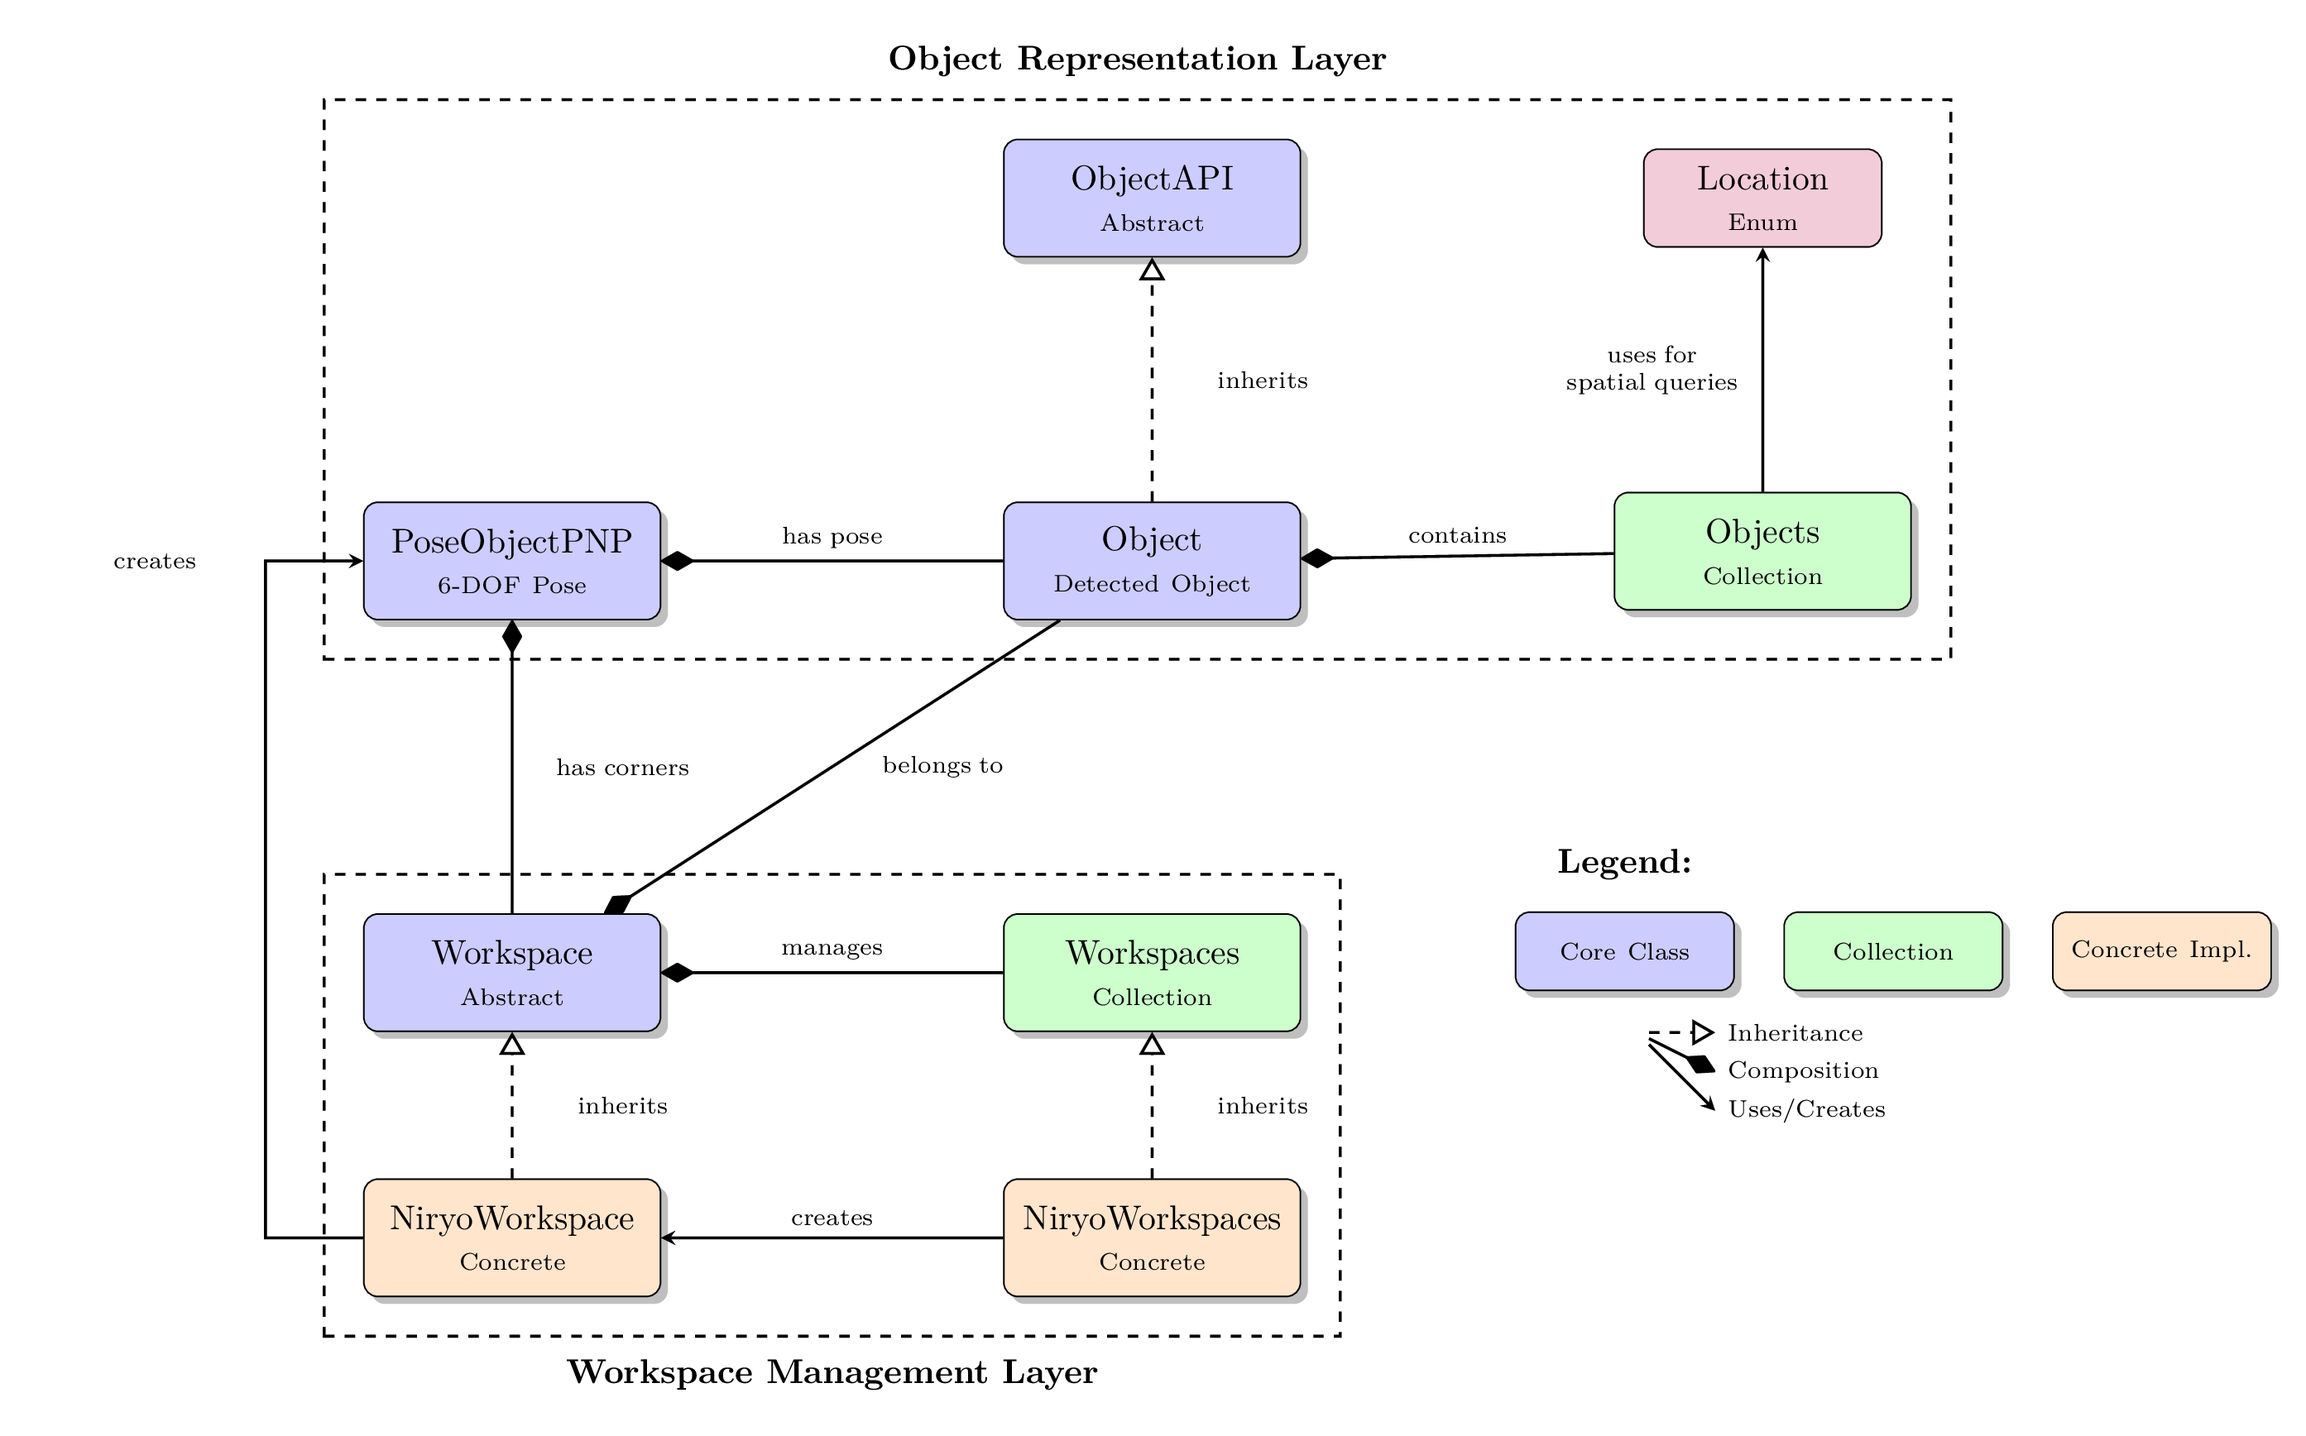
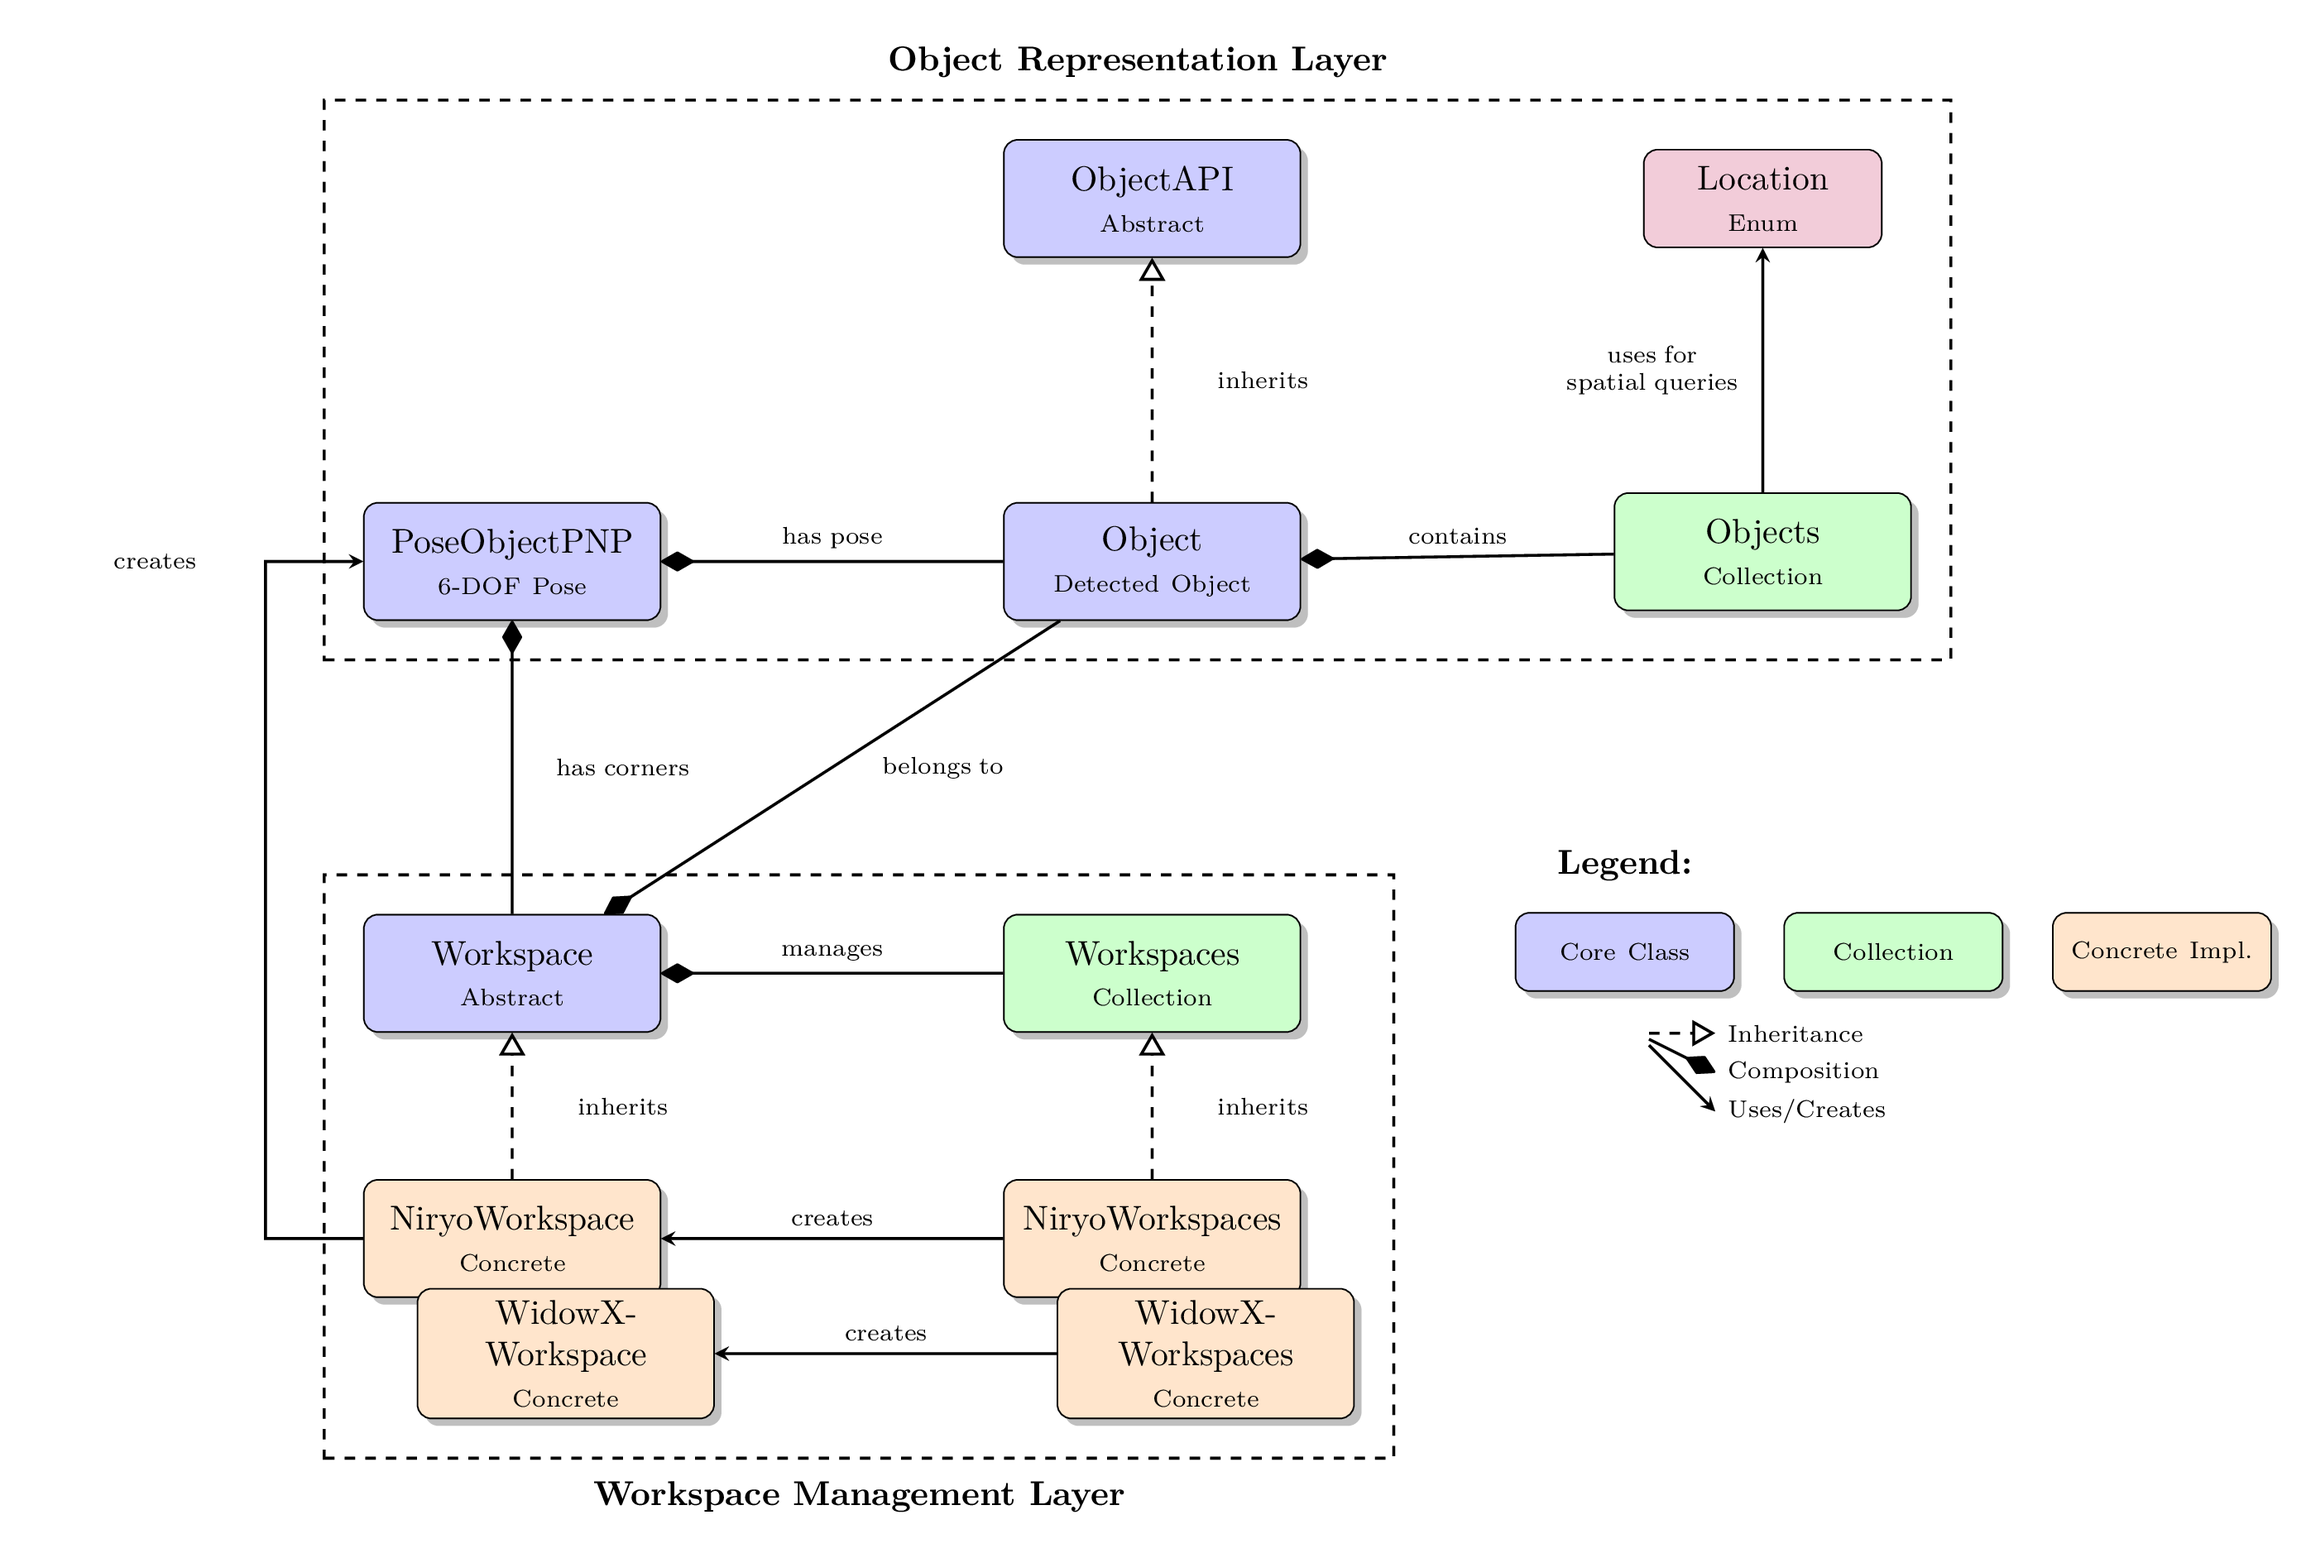
updated tex

diff --git a/docs/tex/architecture_diagram.tex b/docs/tex/architecture_diagram.tex
@@ -84,6 +84,9 @@
   \node[concrete, below=1.5cm of workspace] (niryows) {NiryoWorkspace\\{\scriptsize Concrete}};
   \node[concrete, below=1.5cm of workspaces] (niryowss) {NiryoWorkspaces\\{\scriptsize Concrete}};
 
+  \node[concrete, below right=-0.1cm and -2.50cm of niryows] (widowxws) {WidowXWorkspace\\{\scriptsize Concrete}};
+  \node[concrete, below right=-0.1cm and -2.50cm of niryowss] (widowxwss) {WidowXWorkspaces\\{\scriptsize Concrete}};
+
   % ===== Relationships: Inheritance =====
   \draw[inherit] (object) -- node[right, label, font=\scriptsize] {inherits} (objectapi);
   \draw[inherit] (niryows) -- node[right, label, font=\scriptsize] {inherits} (workspace);
@@ -100,6 +103,7 @@
   \draw[arrow] (objects) -- node[left, label, font=\scriptsize] {uses for\\spatial queries} (location);
   \draw[arrow] (niryows.west) -- ++(-1.0,0) |- node[left, label, font=\scriptsize] {creates} (poseobject.west);
   \draw[arrow] (niryowss) -- node[above, label, font=\scriptsize] {creates} (niryows);
+  \draw[arrow] (widowxwss) -- node[above, label, font=\scriptsize] {creates} (widowxws);
 
   % ===== Data Flow =====
   %\draw[arrow, blue, very thick] (poseobject.south) to[bend right=20] node[left, label, font=\scriptsize] {coordinate\\transform} (workspace.north);
@@ -110,7 +114,7 @@
         inner sep=0.4cm] (objlayer) {};
   \node[above=0.1cm of objlayer] {\textbf{Object Representation Layer}};
 
-  \node[draw, dashed, thick, fit=(workspace) (workspaces) (niryows) (niryowss),
+  \node[draw, dashed, thick, fit=(workspace) (workspaces) (niryows) (niryowss) (widowxws) (widowxwss),
         inner sep=0.4cm] (wslayer) {};
   \node[below=0.1cm of wslayer] {\textbf{Workspace Management Layer}};
 
